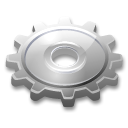
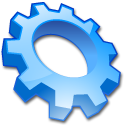
updated settings image

diff --git a/qml/TitleBar.qml b/qml/TitleBar.qml
@@ -68,7 +68,7 @@ Rectangle {
 
         smooth: true
 
-        source: "images/kservices.png"
+        source: "images/cog.png"
 
         opacity: buttonMouseArea.pressed ? 0.8 : 1
 
